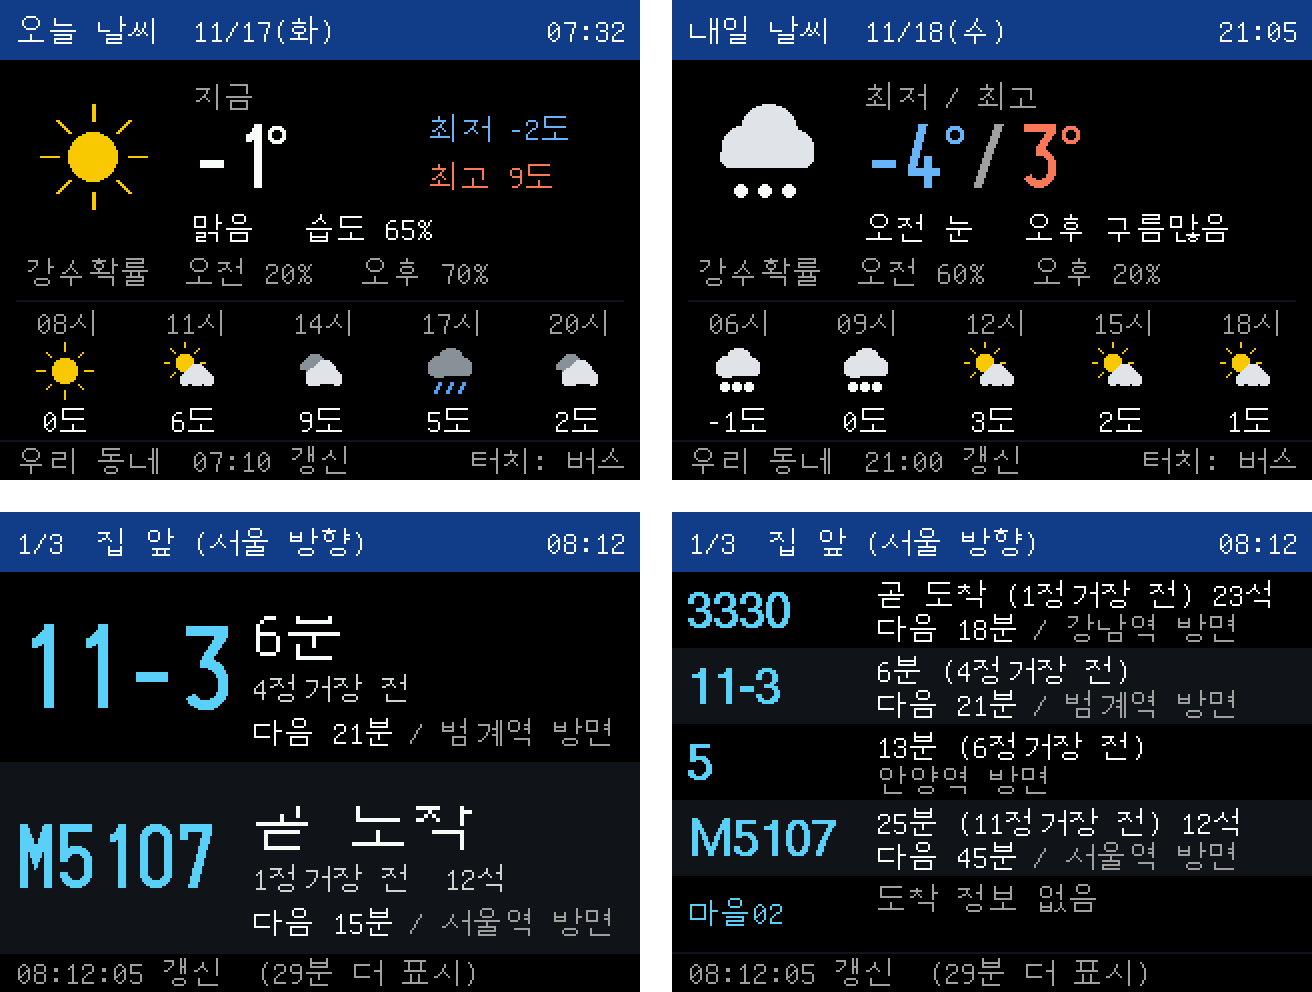
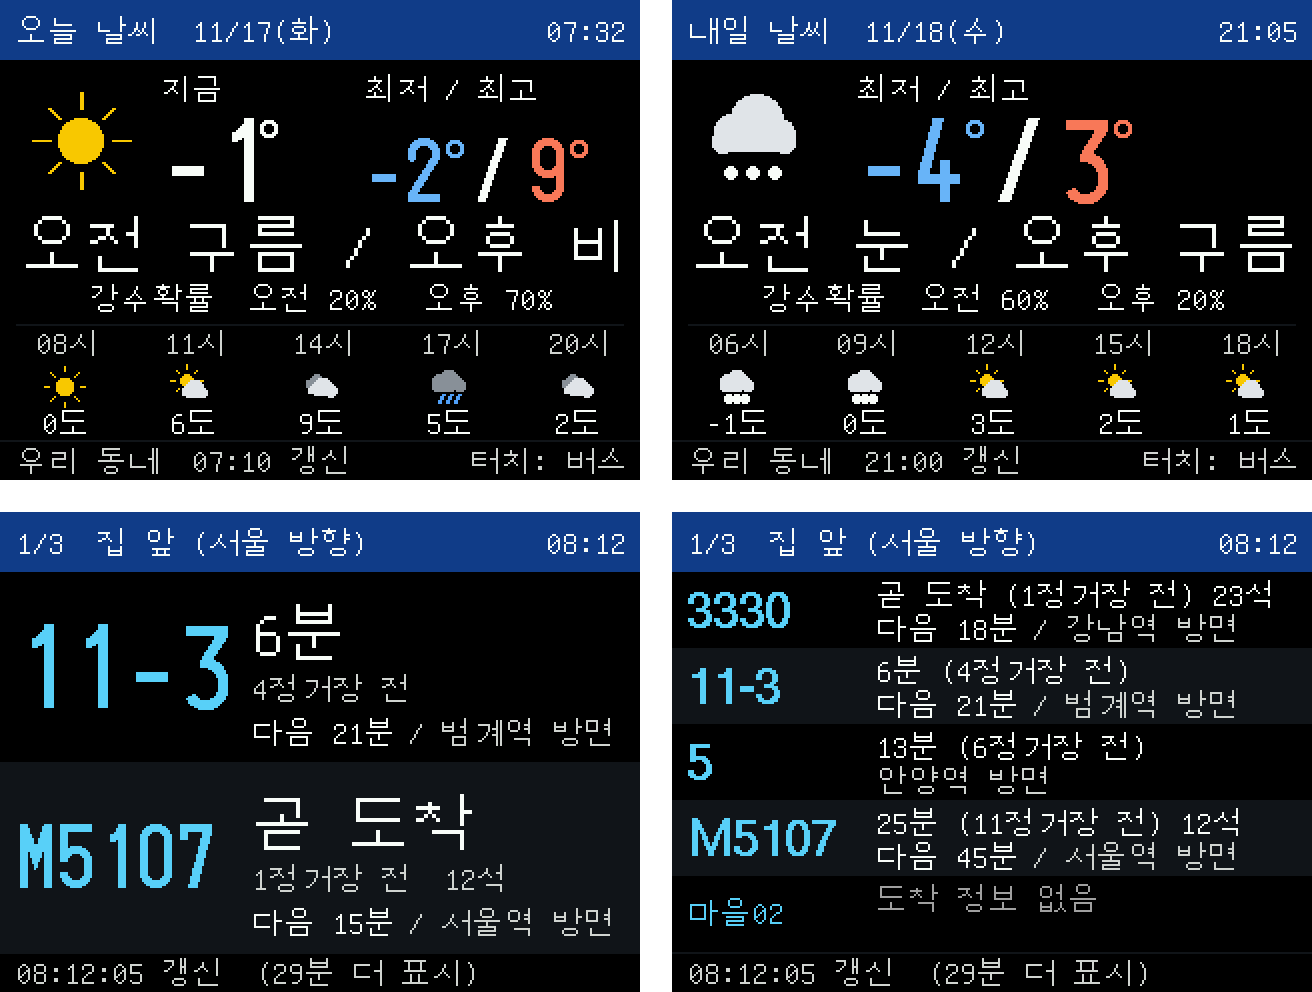
날씨 화면: 최저/최고 크게, 오전/오후 날씨 줄 추가, 회색 글자를 흰색으로
- 지금 기온과 최저/최고를 큰 숫자 글꼴로 (들어가는 가장 큰 크기 자동 선택)
- 습도를 빼고, 그 자리에 "오전 맑음 / 오후 비" 를 2배 크기로 (안 들어가면 보통 크기)
- 강수확률, 시간별 예보의 시각, 맨 아래 줄, 안내 문구를 흰색 계열로
- 한글 2배 글자의 윗부분이 잘리던 문제 수정 (그림판 높이와 바닥선 조정)

Claude-Session: https://claude.ai/code/session_01JmD3neNDVVxj1jPjcyheg5

diff --git a/esp32-bus-display/BusArrivalDisplay/display.cpp b/esp32-bus-display/BusArrivalDisplay/display.cpp
@@ -39,7 +39,7 @@ static SPIClass tftSpi(FSPI);
 #endif
 static Adafruit_ILI9341 tft(&tftSpi, TFT_DC, TFT_CS, TFT_RST);
 static U8G2_FOR_ADAFRUIT_GFX u8f;
-static GFXcanvas1 bigCanvas(160, 16);  // 한글 2배 글자용 그림판 (1배 160픽셀 = 화면 320픽셀)
+static GFXcanvas1 bigCanvas(160, 18);  // 한글 2배 글자용 그림판 (1배 160픽셀 = 화면 320픽셀)
 static U8G2_FOR_ADAFRUIT_GFX u8big;
 
 // 글꼴 바꾸기. 이 라이브러리는 글꼴을 바꿀 때마다 "글자 배경 칠하기"로 되돌아가서
@@ -198,7 +198,7 @@ void displayMessage(const char* title, const char* line1, const char* line2) {
   drawHeader(title);  // 제목 + 시계
   useFont(FONT_KOREAN);
   if (line1) drawCentered(H / 2 - 14, line1, C_TEXT);
-  if (line2) drawCentered(H / 2 + 14, line2, C_DIM);
+  if (line2) drawCentered(H / 2 + 14, line2, C_TEXT2);
 }
 
 void displayHeader(const char* title) { drawHeader(title); }
@@ -236,21 +236,20 @@ static int16_t bigWidth(const char* text) {
   return u8big.getUTF8Width(text) * 2;
 }
 
-static int16_t bigAscent() {
-  useBigFont();
-  return u8big.getFontAscent() * 2;
-}
+// 한글 글자는 글꼴이 알려 주는 높이(영문 기준)보다 위로 더 올라가서, 바닥선을 넉넉히 잡습니다.
+static const int16_t BIG_BASE = 15;  // 그림판 안의 바닥선 (16픽셀 글꼴, 아래로 2픽셀)
+
+static int16_t bigAscent() { return 14 * 2; }
 
 // baseline: 2배 글자의 바닥선 위치
 static void drawBig(int16_t x, int16_t baseline, const char* text, uint16_t color) {
   useBigFont();
   u8big.setForegroundColor(1);
   bigCanvas.fillScreen(0);
-  const int16_t asc = u8big.getFontAscent();
-  u8big.drawUTF8(0, asc, text);
+  u8big.drawUTF8(0, BIG_BASE, text);
   int16_t w = u8big.getUTF8Width(text);
   if (w > bigCanvas.width()) w = bigCanvas.width();
-  const int16_t top = baseline - asc * 2;
+  const int16_t top = baseline - BIG_BASE * 2;
   // 가로로 이어진 점들을 한 번에 칠해서 빠르게 그립니다.
   for (int16_t y = 0; y < bigCanvas.height(); y++) {
     int16_t run = -1;
@@ -331,7 +330,7 @@ static void drawNextLine(int16_t x, int16_t baseline, int16_t maxW, const char* 
   if (dest[0] && used < maxW - 24) {
     char buf[64];
     snprintf(buf, sizeof(buf), "%s%s", second[0] ? " / " : "", dest);
-    drawClipped(x + used, baseline, maxW - used, buf, C_DIM);
+    drawClipped(x + used, baseline, maxW - used, buf, C_TEXT2);
   }
 }
 
@@ -405,7 +404,7 @@ static void drawEmpty() {
   for (int i = 1; i < ROWS_PER_PAGE; i++) rowCache[i][0] = '\0';
   tft.fillRect(0, HEADER_H, W, H - HEADER_H - FOOTER_H, C_BG);
   useFont(FONT_KOREAN);
-  drawCentered(HEADER_H + (H - HEADER_H - FOOTER_H) / 2, "지금 도착 예정인 버스가 없어요", C_DIM);
+  drawCentered(HEADER_H + (H - HEADER_H - FOOTER_H) / 2, "지금 도착 예정인 버스가 없어요", C_TEXT2);
 }
 
 // 맨 아래 줄: 왼쪽에 안내(또는 빨간 경고), 오른쪽에 짧은 글 (페이지 번호 등)
@@ -421,8 +420,8 @@ static void drawFooter(const char* footer, const char* warning, const char* page
   tft.drawFastHLine(0, y0, W, C_ROW_ALT);
   useFont(FONT_KOREAN);
   int16_t pageW = pageText[0] ? u8f.getUTF8Width(pageText) : 0;
-  drawClipped(8, H - 4, W - 24 - pageW, warn ? warning : footer, warn ? C_WARN : C_DIM);
-  if (pageText[0]) drawText(W - 8 - pageW, H - 4, pageText, C_DIM);
+  drawClipped(8, H - 4, W - 24 - pageW, warn ? warning : footer, warn ? C_WARN : C_TEXT2);
+  if (pageText[0]) drawText(W - 8 - pageW, H - 4, pageText, C_TEXT2);
 }
 
 void displayArrivals(const bus::Result& data, uint32_t ageSec, const char* station,
@@ -550,16 +549,62 @@ static void drawCenteredAt(int16_t cx, int16_t baseline, const char* text, uint1
 }
 
 // 큰 기온 숫자 + 도(°) 표시. 그린 너비를 돌려줍니다.
-static int16_t drawBigTemp(int16_t x, int16_t baseline, int temp, uint16_t color) {
+static int16_t bigTempWidth(int temp, const uint8_t* font) {
   char buf[8];
   snprintf(buf, sizeof(buf), "%d", temp);
-  useFont(FONT_BIG_NUM);
+  useFont(font);
+  return u8f.getUTF8Width(buf) + 14;
+}
+
+static int16_t drawBigTemp(int16_t x, int16_t baseline, int temp, uint16_t color,
+                           const uint8_t* font = FONT_BIG_NUM) {
+  char buf[8];
+  snprintf(buf, sizeof(buf), "%d", temp);
+  useFont(font);
   drawText(x, baseline, buf, color);
   int16_t w = u8f.getUTF8Width(buf);
   int16_t top = baseline - u8f.getFontAscent();
   tft.drawCircle(x + w + 7, top + 5, 4, color);
   tft.drawCircle(x + w + 7, top + 5, 3, color);
   return w + 14;
+}
+
+// "최저 / 최고" 를 maxW 안에 들어가는 가장 큰 글꼴로 (파랑 / 빨강)
+static void drawMinMax(int16_t x, int16_t baseline, int16_t maxW, int tmin, int tmax) {
+  const uint8_t* fonts[] = {u8g2_font_logisoso42_tr, u8g2_font_logisoso32_tr,
+                            u8g2_font_logisoso28_tr, u8g2_font_logisoso24_tr};
+  const uint8_t* font = fonts[3];
+  for (const uint8_t* f : fonts) {
+    useFont(f);
+    int16_t slashW = u8f.getUTF8Width("/") + 12;
+    if (bigTempWidth(tmin, f) + slashW + bigTempWidth(tmax, f) <= maxW) {
+      font = f;
+      break;
+    }
+  }
+  x += drawBigTemp(x, baseline, tmin, C_COLD, font);
+  useFont(font);
+  drawText(x + 2, baseline, "/", C_TEXT);
+  x += u8f.getUTF8Width("/") + 12;
+  drawBigTemp(x, baseline, tmax, C_HOT, font);
+}
+
+// 오전/오후 줄은 크게 쓰려고 짧은 이름을 씁니다 ("구름많음" -> "구름")
+static const char* shortConditionName(weather::Condition c) {
+  return c == weather::COND_PARTLY ? "구름" : weather::conditionName(c);
+}
+
+// "오전 맑음 / 오후 비" 를 가운데에. 들어가면 2배 크기, 안 들어가면 보통 크기.
+static void drawAmPm(int16_t baseline2x, weather::Condition am, weather::Condition pm) {
+  char line[64];
+  snprintf(line, sizeof(line), "오전 %s / 오후 %s", shortConditionName(am), shortConditionName(pm));
+  int16_t w2 = bigWidth(line);
+  if (w2 <= W - 12) {
+    drawBig((W - w2) / 2, baseline2x, line, C_TEXT);
+  } else {
+    useFont(FONT_KOREAN);
+    drawCentered(baseline2x - 12, line, C_TEXT);
+  }
 }
 
 static void popText(char* out, size_t size, int am, int pm) {
@@ -572,20 +617,20 @@ static void popText(char* out, size_t size, int am, int pm) {
 // 시간별 예보 한 칸 (5칸 중 col 번째)
 static void drawHourSlot(int col, int hour, const weather::Hour* h) {
   const int16_t colW = W / 5, cx = col * colW + colW / 2;
-  const int16_t y0 = 152;
+  const int16_t y0 = 164;
   if (!h) return;
   char buf[16];
   useFont(FONT_KOREAN);
   snprintf(buf, sizeof(buf), "%02d시", hour);
-  drawCenteredAt(cx, y0 + 15, buf, C_DIM);
-  drawWeatherIcon(cx, y0 + 33, 30, weather::hourCondition(*h));
+  drawCenteredAt(cx, y0 + 13, buf, C_TEXT2);
+  drawWeatherIcon(cx, y0 + 29, 24, weather::hourCondition(*h));
   if (h->temp != weather::UNKNOWN) {
     snprintf(buf, sizeof(buf), "%d도", h->temp);
   } else {
     snprintf(buf, sizeof(buf), "-");
   }
   useFont(FONT_KOREAN);
-  drawCenteredAt(cx, y0 + 64, buf, C_TEXT);
+  drawCenteredAt(cx, y0 + 53, buf, C_TEXT);
 }
 
 static void drawWeatherBody(const WeatherData& w, int nowHour) {
@@ -596,27 +641,17 @@ static void drawWeatherBody(const WeatherData& w, int nowHour) {
   int popAm, popPm;
   Condition am = summarize(day, 6, 12, &popAm);
   Condition pm = summarize(day, 12, 19, &popPm);
+  const bool haveMinMax = day.tmin10 != UNKNOWN10 && day.tmax10 != UNKNOWN10;
   char line[96];
 
+  // ----- 윗줄: 날씨 그림 / (오늘) 지금 기온 / 최저·최고 -----
   if (w.tomorrow) {
-    // ----- 내일: 대표 날씨 아이콘 + 최저/최고 크게 + 오전/오후 -----
     int dummy;
-    drawWeatherIcon(46, 78, 64, summarize(day, 6, 19, &dummy));
-    int16_t x = 96;
-    if (day.tmin10 != UNKNOWN10 && day.tmax10 != UNKNOWN10) {
-      x += drawBigTemp(x, 94, roundTemp(day.tmin10), C_COLD);
-      useFont(FONT_BIG_NUM);
-      drawText(x, 94, "/", C_DIM);
-      x += u8f.getUTF8Width("/") + 8;
-      drawBigTemp(x, 94, roundTemp(day.tmax10), C_HOT);
-    }
+    drawWeatherIcon(40, 70, 58, summarize(day, 6, 19, &dummy));
     useFont(FONT_KOREAN);
-    snprintf(line, sizeof(line), "최저 / 최고");
-    drawText(96, 54, line, C_DIM);
-    snprintf(line, sizeof(line), "오전 %s   오후 %s", conditionName(am), conditionName(pm));
-    drawClipped(96, 120, W - 104, line, C_TEXT);
+    drawText(92, 50, "최저 / 최고", C_TEXT);
+    if (haveMinMax) drawMinMax(92, 101, W - 92 - 6, roundTemp(day.tmin10), roundTemp(day.tmax10));
   } else {
-    // ----- 오늘: 지금 날씨 아이콘 + 지금 기온 크게 + 최저/최고 -----
     int8_t sky = (nowHour >= 0 && nowHour < 24) ? day.hours[nowHour].sky : UNKNOWN;
     Condition current;
     if (w.now.ok) {
@@ -626,38 +661,34 @@ static void drawWeatherBody(const WeatherData& w, int nowHour) {
       current = summarize(day, nowHour, nowHour + 3, &dummy);
     }
     if (current == COND_UNKNOWN) current = am != COND_UNKNOWN ? am : pm;
-    drawWeatherIcon(46, 78, 64, current);
+    drawWeatherIcon(40, 70, 58, current);
 
-    if (w.now.ok) {
-      drawBigTemp(96, 94, roundTemp(w.now.temp10), C_TEXT);
-    } else if (nowHour >= 0 && nowHour < 24 && day.hours[nowHour].temp != UNKNOWN) {
-      drawBigTemp(96, 94, day.hours[nowHour].temp, C_TEXT);
-    }
+    // 지금 기온
     useFont(FONT_KOREAN);
-    drawText(96, 54, "지금", C_DIM);
-    if (w.now.ok && w.now.humidity != UNKNOWN) {
-      snprintf(line, sizeof(line), "%s   습도 %d%%", conditionName(current), w.now.humidity);
-    } else {
-      snprintf(line, sizeof(line), "%s", conditionName(current));
+    drawText(80, 50, "지금", C_TEXT);
+    if (w.now.ok) {
+      drawBigTemp(80, 101, roundTemp(w.now.temp10), C_TEXT, u8g2_font_logisoso42_tr);
+    } else if (nowHour >= 0 && nowHour < 24 && day.hours[nowHour].temp != UNKNOWN) {
+      drawBigTemp(80, 101, day.hours[nowHour].temp, C_TEXT, u8g2_font_logisoso42_tr);
     }
-    drawClipped(96, 120, 120, line, C_TEXT);
 
-    if (day.tmin10 != UNKNOWN10) {
-      snprintf(line, sizeof(line), "최저 %d도", roundTemp(day.tmin10));
-      drawText(214, 70, line, C_COLD);
-    }
-    if (day.tmax10 != UNKNOWN10) {
-      snprintf(line, sizeof(line), "최고 %d도", roundTemp(day.tmax10));
-      drawText(214, 94, line, C_HOT);
-    }
+    // 최저 / 최고
+    const int16_t mx = 182;
+    useFont(FONT_KOREAN);
+    drawText(mx, 50, "최저 / 최고", C_TEXT);
+    if (haveMinMax) drawMinMax(mx, 101, W - mx - 4, roundTemp(day.tmin10), roundTemp(day.tmax10));
   }
 
+  // ----- 가운데: 오전 / 오후 날씨 (크게) -----
+  drawAmPm(134, am, pm);
+
+  // ----- 강수확률 -----
   useFont(FONT_KOREAN);
   popText(line, sizeof(line), popAm, popPm);
-  drawClipped(12, 142, W - 24, line, C_DIM);
-  tft.drawFastHLine(8, 150, W - 16, C_ROW_ALT);
+  drawCentered(150, line, C_TEXT);
+  tft.drawFastHLine(8, 162, W - 16, C_ROW_ALT);
 
-  // 시간별 예보 5칸 (3시간 간격). 오늘은 다음 시각부터, 내일은 06시부터.
+  // ----- 시간별 예보 5칸 (3시간 간격). 오늘은 다음 시각부터, 내일은 06시부터 -----
   int first = w.tomorrow ? 6 : nowHour + 1;
   if (first < 0) first = 0;
   for (int col = 0; col < 5; col++) {
